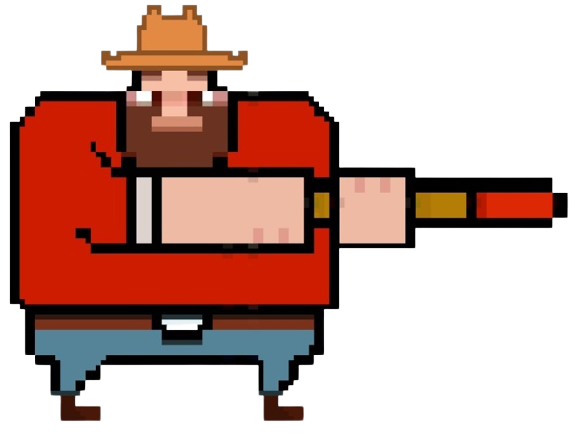
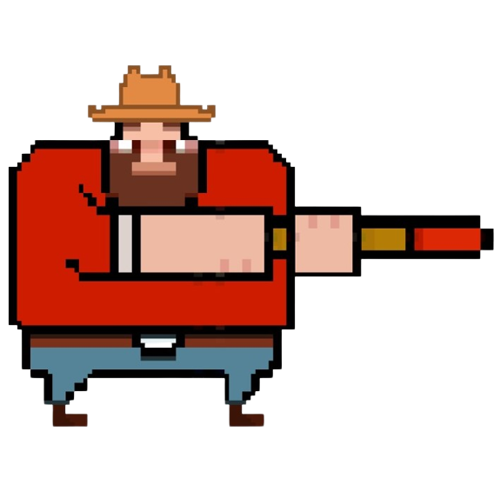
edição nas imagens e velocidade

diff --git a/Lenhador.java b/Lenhador.java
@@ -19,7 +19,7 @@ public class Lenhador extends Actor {
         }
 
         setLocation(128, 465);
-        getImage().scale(250, 300);
+        getImage().scale(300, 300);
 
         currentFrame = 0;
         frameDirection = 1;
@@ -30,7 +30,7 @@ public class Lenhador extends Actor {
             for (int i = 0; i < animationFrames.length; i++) {
                 animationFrames[i] = new GreenfootImage("lenhador" + i + ".png");
                 setLocation(128, 465);
-                animationFrames[i].scale(250, 300);
+                animationFrames[i].scale(300, 300);
             }
 
             ladoDireito = false;
@@ -41,7 +41,7 @@ public class Lenhador extends Actor {
             for (int i = 0; i < animationFrames.length; i++) {
                 animationFrames[i] = new GreenfootImage("lenhadorInvertido" + i + ".png");
                 setLocation(623, 465);
-                animationFrames[i].scale(250, 300);
+                animationFrames[i].scale(300, 300);
             }
 
             ladoDireito = true;
@@ -60,7 +60,7 @@ public class Lenhador extends Actor {
             } else if (currentFrame == 0) {
                 frameDirection = 1;
             }
-            Greenfoot.delay(10);
+            Greenfoot.delay(4);
             currentFrame += frameDirection;
         }
         currentFrame = 0;
